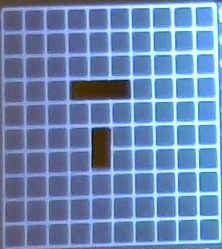
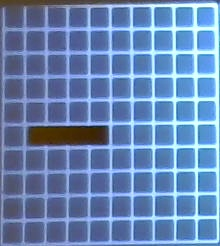
..

diff --git a/Final code/detectShapePosition.py b/Final code/detectShapePosition.py
@@ -65,6 +65,7 @@ def shape_positions(coord,width,height):
     shapeYMin = coord[0][1]
     shapeXMax = coord[1][0]
     shapeYMax = coord[1][1]
+
     '''
     print(shapeXMin)
     print(shapeXMax)
@@ -123,17 +124,24 @@ def shape_positions(coord,width,height):
         shapeColumnMax=shapeColumnMax+1
     if(diffRows==0):
         shapeRowMax=shapeRowMax+1
+
     if(diffColumn>=2 and diffRows>=2):
-        if(diffColumn>diffRows):
-            shapeRowMax=shapeRowMax-1
-        if(diffRows>diffColumn):
-            shapeColumnMax=shapeColumnMax-1
-    if(diffColumn==2 and diffRows==2):
-        if(((xMax-1)*cubeWidth)-shapeColumnMax > ((yMax-1)*cubeHeight)-shapeRowMax):
-            shapeRowMax=shapeRowMax-1
-        if(((xMax-1)*cubeWidth)-shapeColumnMax < ((yMax-1)*cubeHeight)-shapeRowMax):
+
+        if(diffColumn==2 and diffRows==2):
+            if ((shapeYMax - shapeYMin) > (shapeXMax - shapeXMin)):
+                shapeColumnMax = shapeColumnMax - 1
+                #shapeRowMax += 1
+            elif ((shapeYMax - shapeYMin) < (shapeXMax - shapeXMin)):
+                shapeRowMax = shapeRowMax - 1
+                #shapeColumnMax += 1
+        else:
+            if(diffColumn>diffRows):
+                shapeRowMax=shapeRowMax-1
+            if(diffRows>diffColumn):
+                shapeColumnMax=shapeColumnMax-1
 
             shapeColumnMax = shapeColumnMax - 1
+
     yield(shapeColumnMin,shapeColumnMax,shapeRowMin,shapeRowMax)
     print(str(shapeColumnMin) + ' ' + str(shapeColumnMax)+ ' '+str(shapeRowMin)+ ' '+str(shapeRowMax))
 def shape_gridP(MinMax):
@@ -146,7 +154,7 @@ def shape_gridP(MinMax):
         if Hmax - Hmin == 1:
             positions.append([Vmin,Hmin])
         else:
-            if Vmax<=5:
+            if Vmax<=6:
                 for i in range(Hmin, Hmax):
                     positions.append([Vmin,i])
             else:
